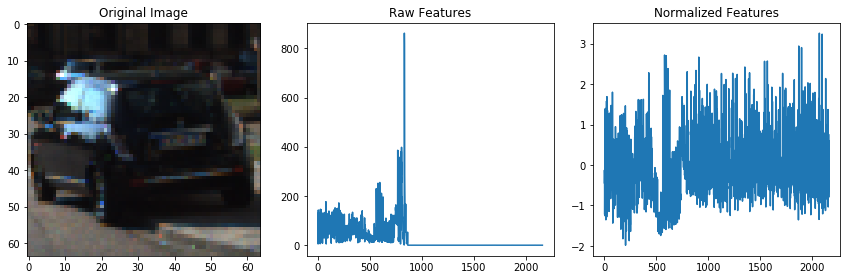
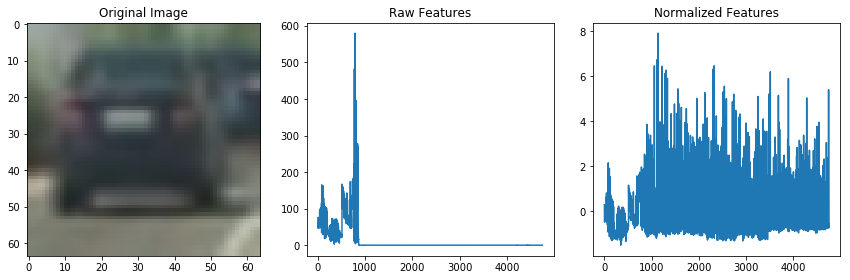
Fixing parameters

diff --git a/classifier_trainer.py b/classifier_trainer.py
@@ -40,14 +40,14 @@ color_space = 'HSV' # Can be RGB, HSV, LUV, HLS, YUV, YCrCb
 orient = 9  # HOG orientations
 pix_per_cell = 9 # HOG pixels per cell
 cell_per_block = 2 # HOG cells per block
-hog_channel = 0# Can be 0, 1, 2, or "ALL"
+hog_channel = 'ALL' # Can be 0, 1, 2, or "ALL"
 spatial_size = (16, 16) # Spatial binning dimensions
 hist_bins = 32    # Number of histogram bins
 spatial_feat = True # Spatial features on or off
 hist_feat = True # Histogram features on or off
 hog_feat = True # HOG features on or off
 visualize_feat = False # Visualize HOG
-visualize_trans = False
+visualize_trans = True
 
 if visualize_feat == False:
     car_features = extract_features(cars, color_space=color_space, 
@@ -183,4 +183,17 @@ if sample_size > 1:
     print('Test Accuracy of SVC = ', round(svc.score(X_test, y_test), 4)) # Check the score of the SVC
     
     # Save the classifier for use later
-    pickle.dump(svc, open( "svm_classifier.p", "wb" ))
+    classifier_pickle = {}
+    classifier_pickle["svc"] = svc
+    classifier_pickle["X_scaler"] = X_scaler
+    classifier_pickle["orient"] = orient
+    classifier_pickle["pix_per_cell"] = pix_per_cell
+    classifier_pickle["cell_per_block"] = cell_per_block
+    classifier_pickle["hog_channel"] = hog_channel
+    classifier_pickle["spatial_size"] = spatial_size
+    classifier_pickle["hist_bins"] = hist_bins
+    classifier_pickle["spatial_feat"] = spatial_feat 
+    classifier_pickle["hist_feat"] = hist_feat
+    classifier_pickle["hog_feat"] = hog_feat                         
+    
+    pickle.dump(classifier_pickle, open( "svm_classifier.p", "wb" ))
